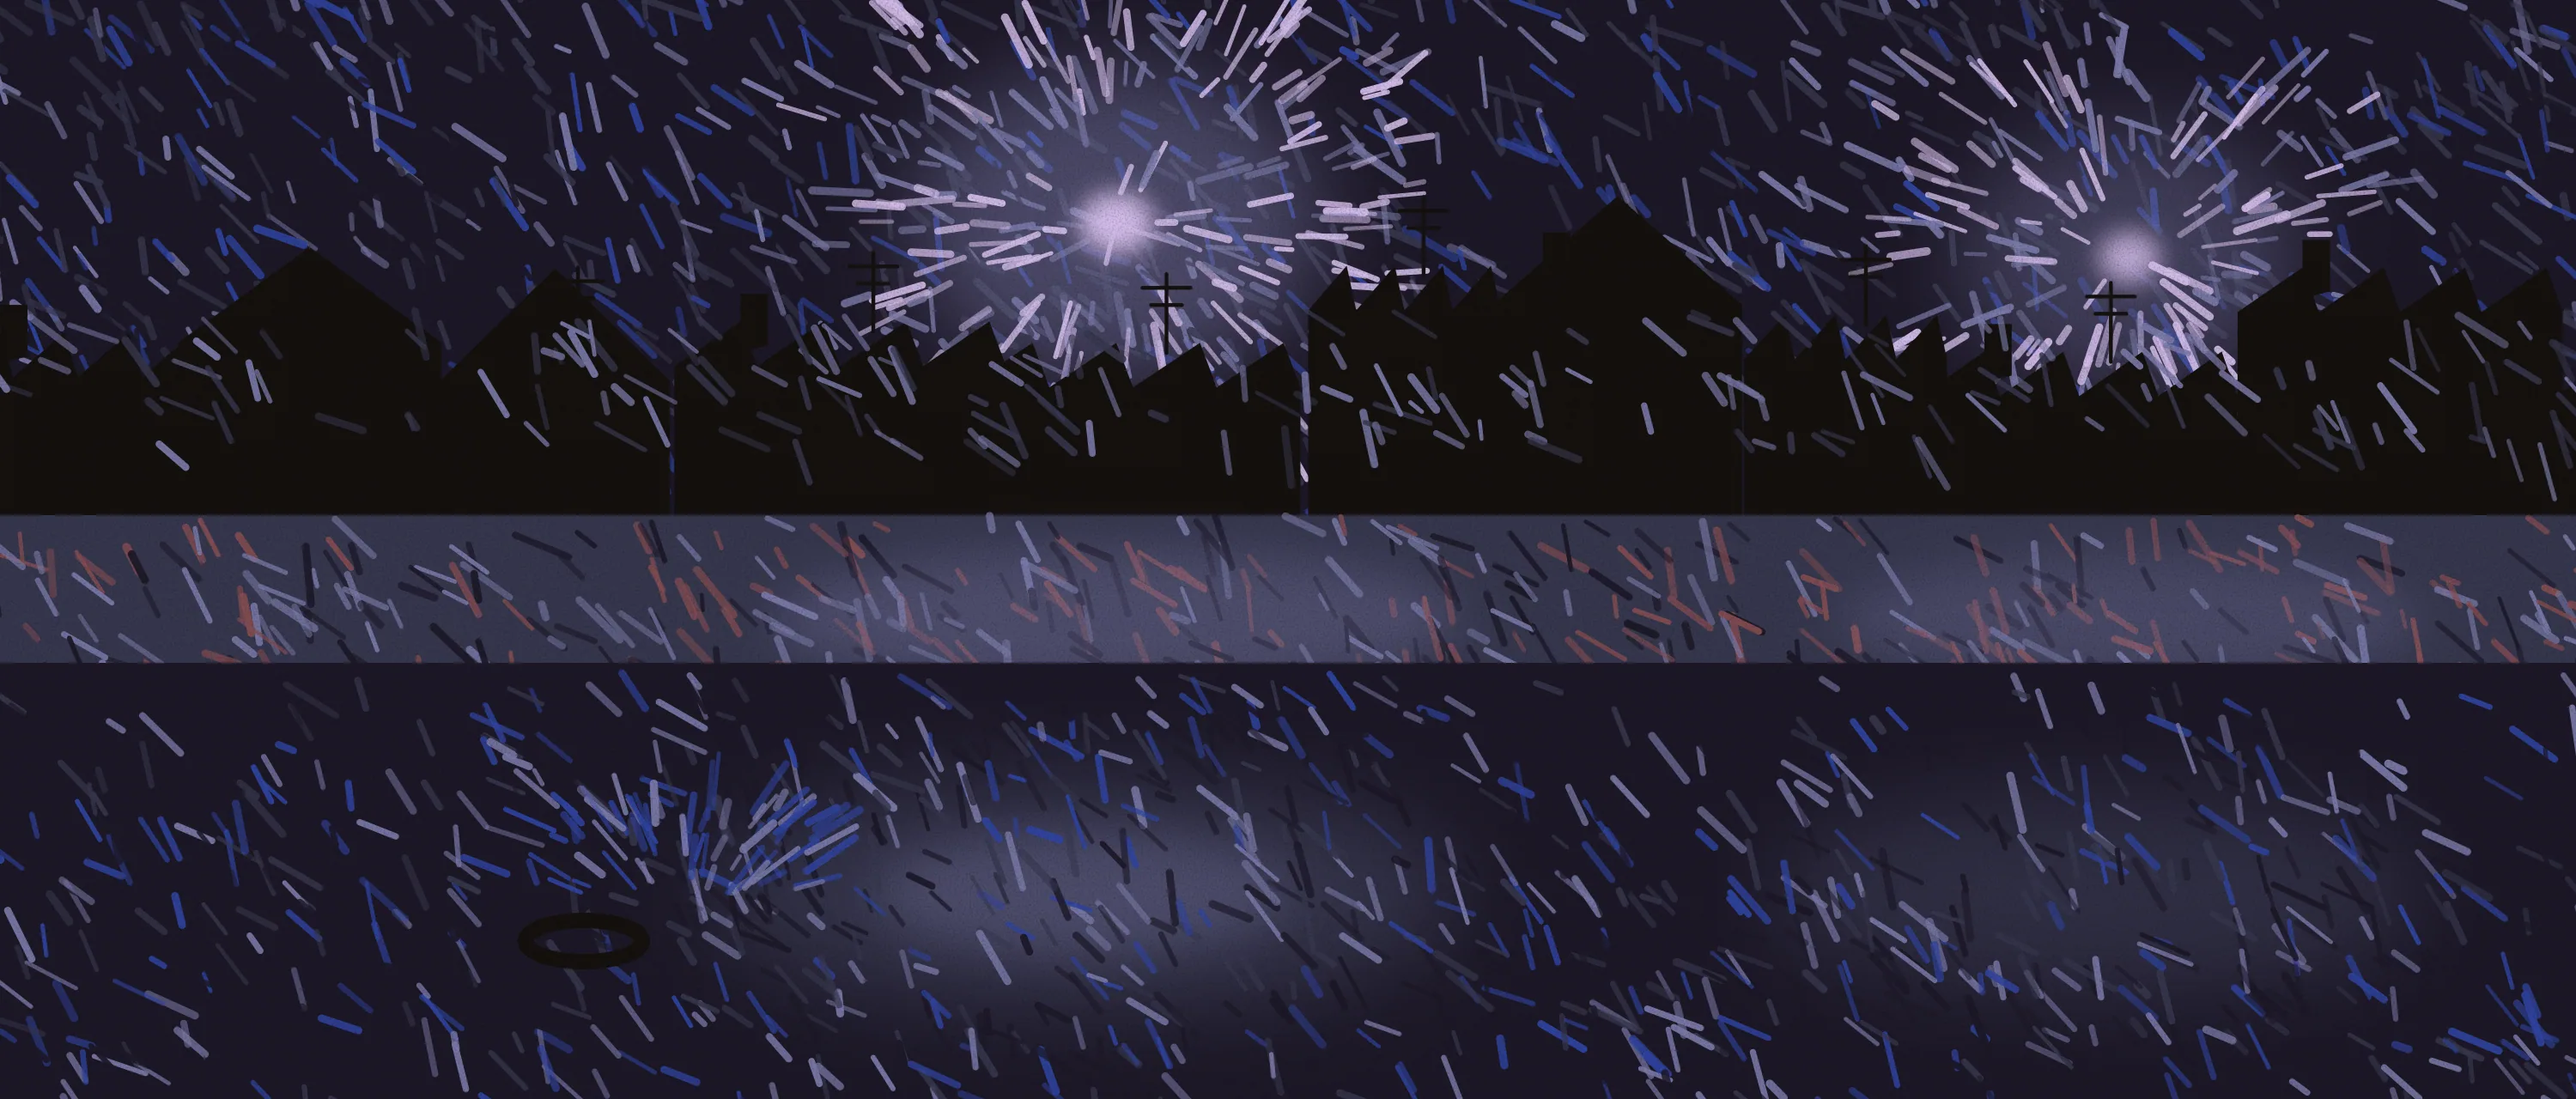
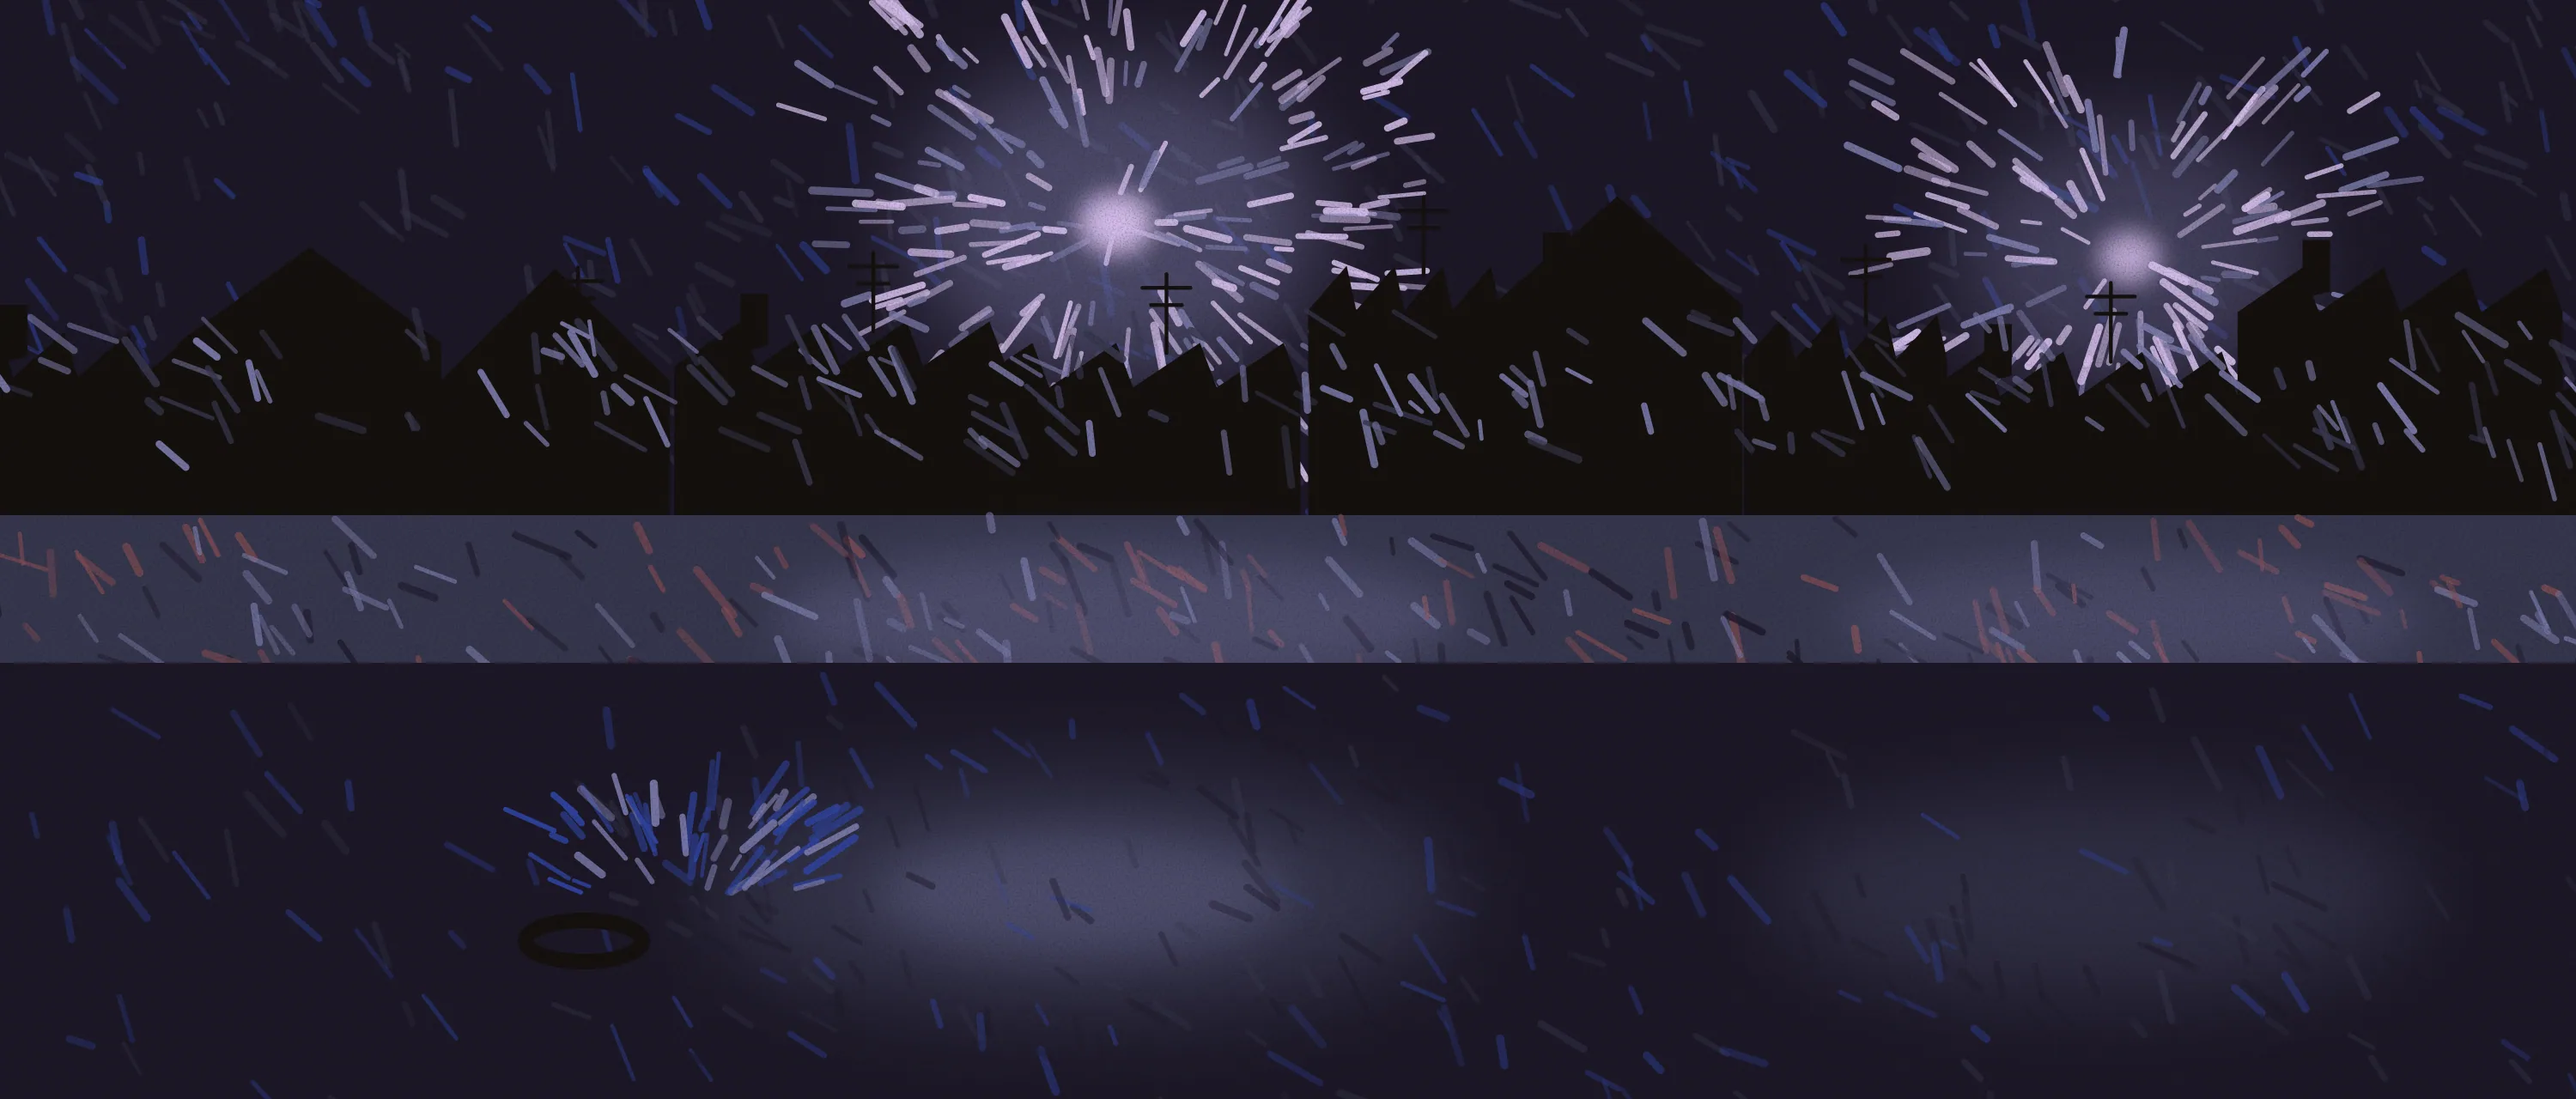
Bestiario: los techos sin ahogar, el crayon queda donde hay luz (D-90, ronda 7)
El telon del recinto (baldio-lejos, previo a esta rama) llevaba 900 rayones parejos en el cielo y 700 en el piso. Quedan 380 y 230, mas flojos y sin el lila; los de los faroles no se tocan. El haz de la linterna, de 90 a 40.

diff --git a/src/lib/bestiario/arte.ts b/src/lib/bestiario/arte.ts
@@ -254,7 +254,7 @@ const B = {
 };
 
 /** Rayones de crayón: cortos, en tandas que apuntan para un mismo lado, como los de la tapa. */
-function rayones(x0: number, y0: number, x1: number, y1: number, cuantos: number, colores: readonly string[], semilla: number, haciaX?: number, haciaY?: number): string {
+function rayones(x0: number, y0: number, x1: number, y1: number, cuantos: number, colores: readonly string[], semilla: number, haciaX?: number, haciaY?: number, fuerza = 1): string {
   const rnd = azar(semilla);
   let s = '';
   for (let i = 0; i < cuantos; i++) {
@@ -264,7 +264,7 @@ function rayones(x0: number, y0: number, x1: number, y1: number, cuantos: number
     if (haciaX !== undefined && haciaY !== undefined) ang = Math.atan2(y - haciaY, x - haciaX) + (rnd() - 0.5) * 0.5;
     const largo = 8 + rnd() * 26;
     const color = colores[Math.floor(rnd() * colores.length)]!;
-    s += trazo(`M${x.toFixed(1)} ${y.toFixed(1)} l${(Math.cos(ang) * largo).toFixed(1)} ${(Math.sin(ang) * largo).toFixed(1)}`, color, 2.2 + rnd() * 2.6, 0.5 + rnd() * 0.45);
+    s += trazo(`M${x.toFixed(1)} ${y.toFixed(1)} l${(Math.cos(ang) * largo).toFixed(1)} ${(Math.sin(ang) * largo).toFixed(1)}`, color, 2.2 + rnd() * 2.6, (0.5 + rnd() * 0.45) * fuerza);
   }
   return s;
 }
@@ -281,8 +281,8 @@ function baldioLejos(): string {
   const ancho = TECHOS.ancho;
   const farol = { x: 650, y: 130 };
   const otro = FAROL_DEL_FONDO;
-  const nuevo = (x0: number, y0: number, y1: number, cuantos: number, colores: readonly string[], semilla: number): string =>
-    rayones(x0, y0, ancho + 20, y1, Math.round((cuantos * (ancho + 20 - x0)) / 940), colores, semilla);
+  const nuevo = (x0: number, y0: number, y1: number, cuantos: number, colores: readonly string[], semilla: number, fuerza = 1): string =>
+    rayones(x0, y0, ancho + 20, y1, Math.round((cuantos * (ancho + 20 - x0)) / 940), colores, semilla, undefined, undefined, fuerza);
   // Los techos: chapa a dos aguas y en diente de sierra, con antenas de tele.
   const rnd = azar(61);
   let techos = '';
@@ -303,9 +303,12 @@ function baldioLejos(): string {
   return (
     `<g filter="url(#rociado)">` +
     `<rect x="-10" y="-10" width="${ancho + 20}" height="${alto + 20}" fill="${B.noche}"/>` +
-    // El cielo rayado, y la luz del farol que aprieta los rayones alrededor.
-    rayones(-20, -20, 920, 300, 900, [B.violeta, B.azul, B.violeta, B.noche, B.lila], 5) +
-    nuevo(920, -20, 300, 900, [B.violeta, B.azul, B.violeta, B.noche, B.lila], 105) +
+    // El cielo rayado, y la luz del farol que aprieta los rayones alrededor. Desde `D-90` (séptima
+    // ronda) el cielo lleva menos de la mitad de los rayones y más flojos: con 900 parejos de punta a
+    // punta se leía como ruido de televisor, y tapaba lo que pasa adelante. El crayón de *Un baión*
+    // queda donde hay luz: apretado alrededor de cada farol, que no se tocó.
+    rayones(-20, -20, 920, 300, 380, [B.violeta, B.azul, B.violeta, B.noche], 5, undefined, undefined, 0.6) +
+    nuevo(920, -20, 300, 380, [B.violeta, B.azul, B.violeta, B.noche], 105, 0.6) +
     nube(farol.x, farol.y, 120, 90, B.lila, 'xl', 0.5) +
     rayones(farol.x - 170, farol.y - 120, farol.x + 170, farol.y + 140, 260, [B.luz, B.lila, B.luz], 9, farol.x, farol.y) +
     nube(farol.x, farol.y, 22, 18, B.luz, 'm') +
@@ -318,8 +321,8 @@ function baldioLejos(): string {
     nuevo(920, 180, 260, 120, [B.lila, B.violeta], 113) +
     // La medianera, con los ladrillos rayados.
     forma(`M-10 300 L${ancho + 10} 300 L${ancho + 10} 392 L-10 392 Z`, B.violeta) +
-    rayones(-10, 300, 910, 392, 260, [B.noche, B.rosa, B.lila], 17) +
-    nuevo(910, 300, 392, 260, [B.noche, B.rosa, B.lila], 117) +
+    rayones(-10, 300, 910, 392, 150, [B.noche, B.rosa, B.lila], 17, undefined, undefined, 0.8) +
+    nuevo(910, 300, 392, 150, [B.noche, B.rosa, B.lila], 117, 0.8) +
     nube(farol.x, 360, 200, 40, B.lila, 'l', 0.35) +
     nube(otro.x, 360, 170, 36, B.lila, 'l', 0.28) +
     // El piso del baldío, oscuro, con la luz del farol que cae.
@@ -327,8 +330,10 @@ function baldioLejos(): string {
     nube(farol.x - 20, 520, 220, 70, B.violeta, 'xl', 0.9) +
     nube(farol.x - 20, 520, 120, 36, B.lila, 'l', 0.35) +
     nube(otro.x - 20, 520, 190, 60, B.violeta, 'xl', 0.75) +
-    rayones(-10, 392, 910, alto, 700, [B.violeta, B.azul, B.noche, B.noche, B.lila], 21) +
-    nuevo(910, 392, alto, 700, [B.violeta, B.azul, B.noche, B.noche, B.lila], 121) +
+    // El piso, donde andan los bichos: un tercio de los rayones de antes, sin el lila (que era el
+    // que saltaba delante de ellos) y a media fuerza. Se ve el crayón; no compite con Dinamita.
+    rayones(-10, 392, 910, alto, 230, [B.violeta, B.azul, B.noche, B.noche], 21, undefined, undefined, 0.5) +
+    nuevo(910, 392, alto, 230, [B.violeta, B.azul, B.noche, B.noche], 121, 0.5) +
     // Una goma tirada y unos yuyos.
     `<ellipse cx="340" cy="548" rx="34" ry="12" fill="none" stroke="${B.negro}" stroke-width="9"/>` +
     rayones(320, 470, 480, 520, 60, [B.azul, B.lila], 23, 400, 540) +

diff --git a/src/lib/bestiario/arte-baldio.ts b/src/lib/bestiario/arte-baldio.ts
@@ -321,10 +321,12 @@ function linterna(): string {
   };
   const rnd = azar(461);
   let rayones = '';
-  for (let i = 0; i < 90; i++) {
+  // Eran 90 rayones; desde `D-90` (séptima ronda) son 40 y más flojos: el haz pasa por delante de
+  // los bichos, y con 90 los tapaba.
+  for (let i = 0; i < 40; i++) {
     const x = 60 + rnd() * (largo - 80);
     const y = (rnd() - 0.5) * Math.tan(abre) * x * 1.4;
-    rayones += rayon(x, y, (rnd() - 0.5) * 0.3, 8 + rnd() * 18, rnd() < 0.6 ? L.luz : L.lila, 2 + rnd() * 2, 0.25 + rnd() * 0.3);
+    rayones += rayon(x, y, (rnd() - 0.5) * 0.3, 8 + rnd() * 18, rnd() < 0.6 ? L.luz : L.lila, 2 + rnd() * 2, 0.16 + rnd() * 0.22);
   }
   return soplo(cono(1), L.lila, 'l', 0.4) + soplo(cono(0.45), L.luz, 'm', 0.45) + rayones + nube(4, 0, 10, 8, L.luz, 's', 0.9);
 }
